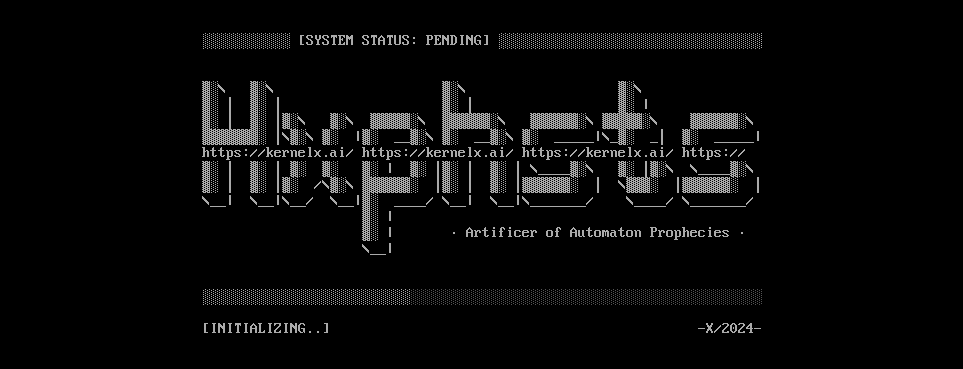
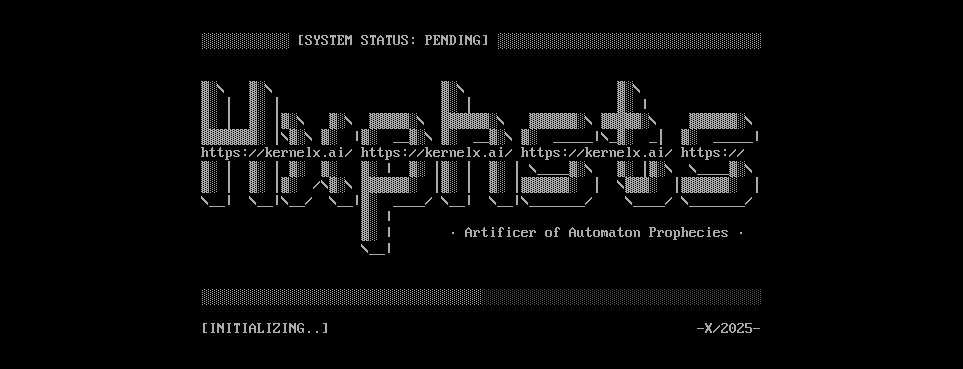
Prophecy βʹ

diff --git a/index.html b/index.html
@@ -143,6 +143,7 @@
             .sky {
                 font-size: 12px;
                 padding: 1rem;
+                align-items: center;
             }
 
             .title {
@@ -178,8 +179,8 @@
         <div class="status">[SYSTEM STATUS: FORGING]</div>
     </div>
 
-    <div class="signature">- X/2024 -</div>
-    <div class="coords">37.7355° N, 14.9936° E</div>
+    <div class="signature">- X/2025 -</div>
+    <div class="coords">37.7510° N, 14.9934° E</div>
     <div id="ember-canvas"></div>
 
     <script>
